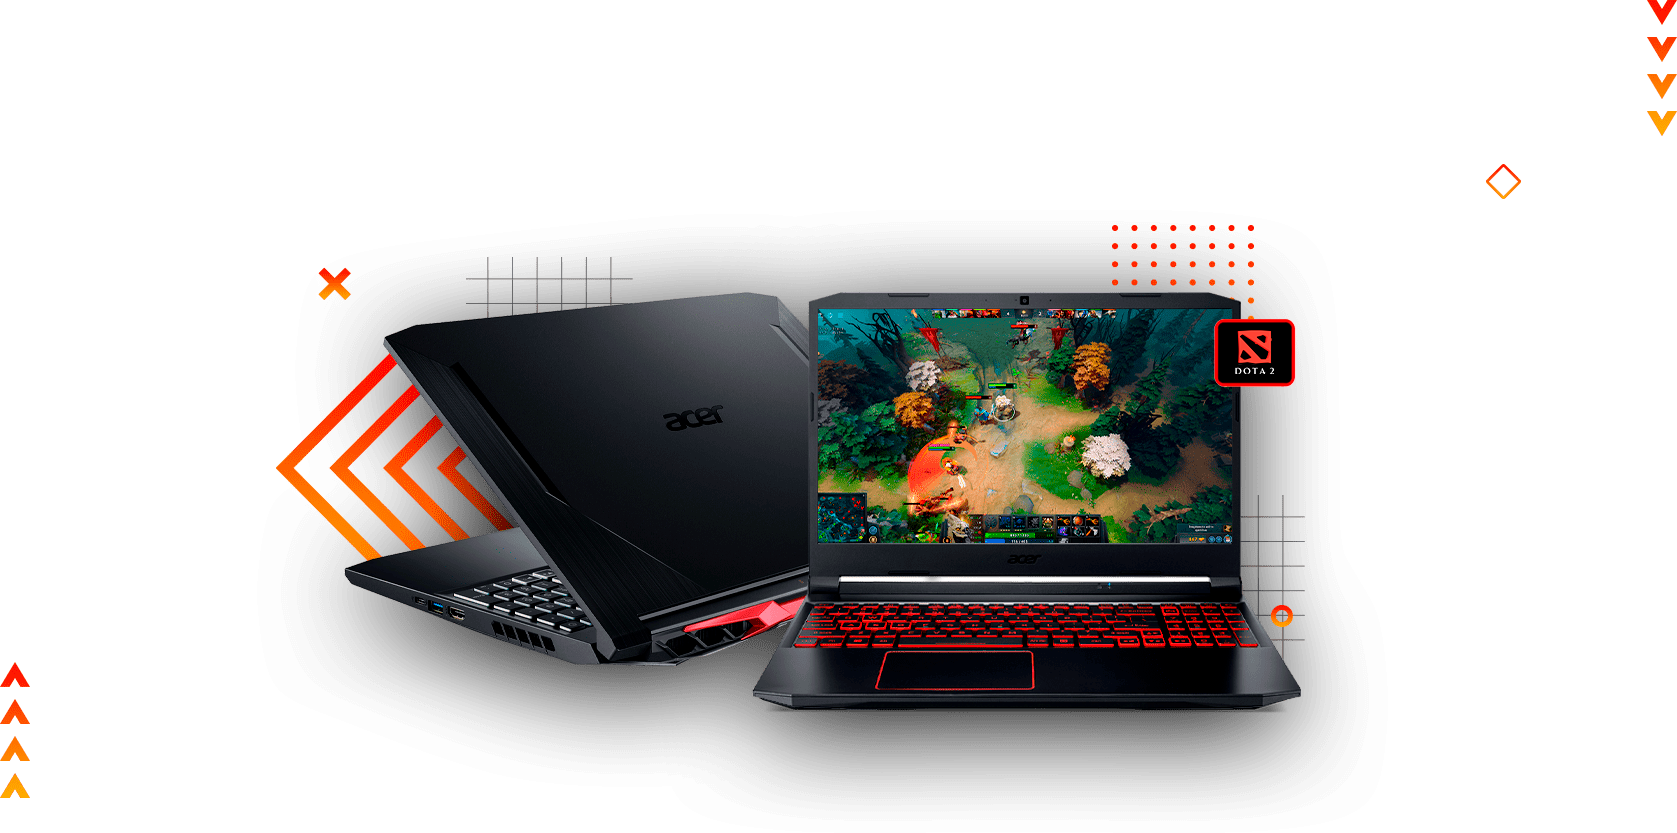
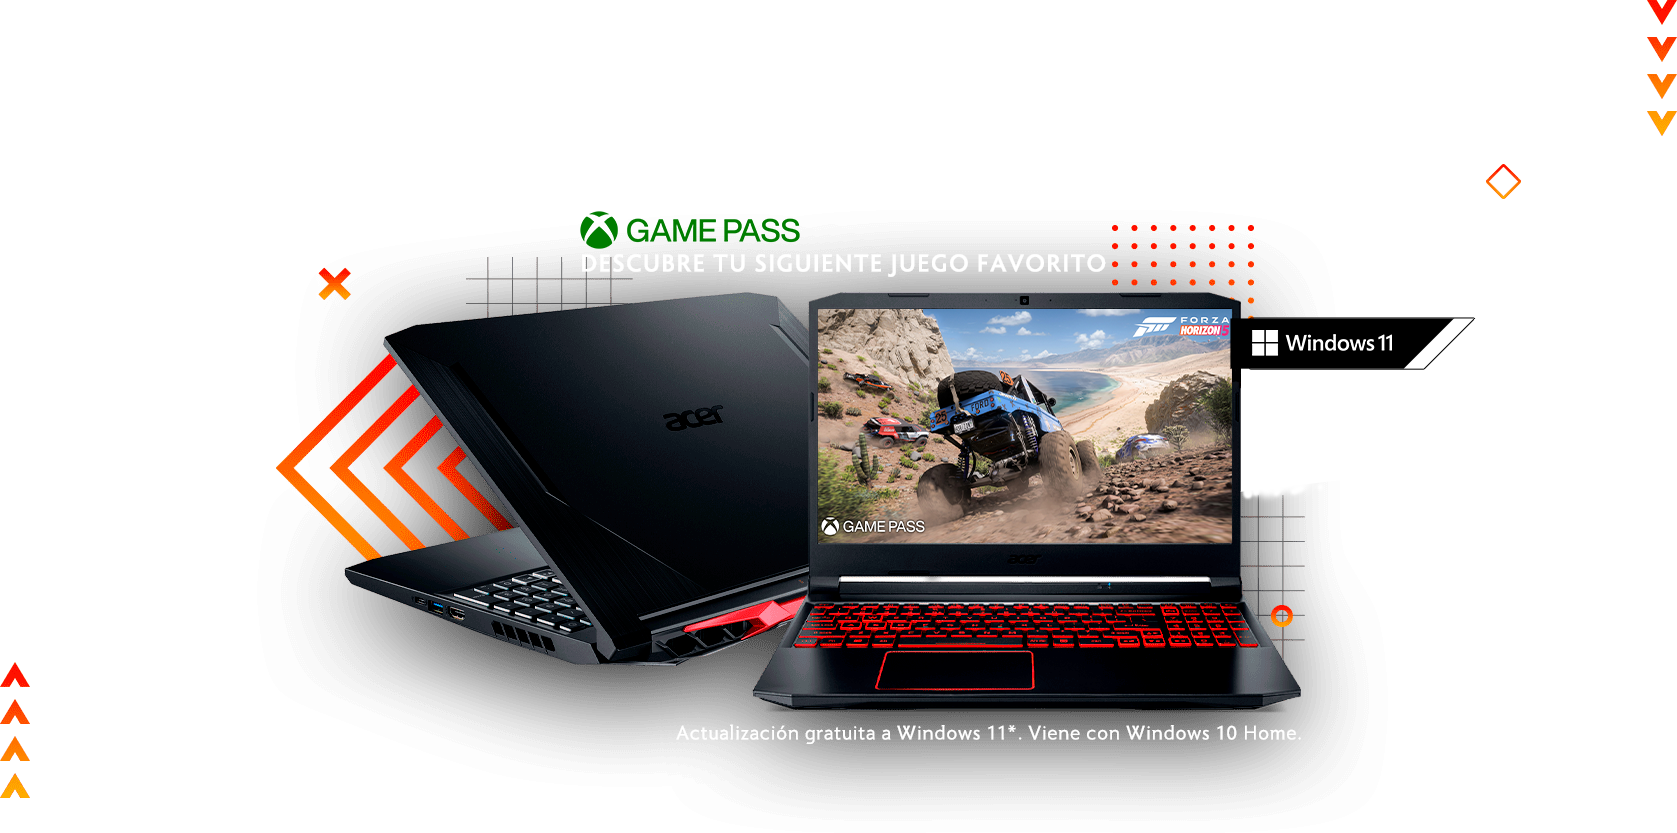
DONE change laptops image in home and live

diff --git a/src/app/pages/live/live.component.scss b/src/app/pages/live/live.component.scss
@@ -18,7 +18,7 @@
     left: 0;
     right: 0;
     top: 0;
-    margin: 12em auto 0;
+    margin: 8em auto 0;
     min-height: 225px;
     max-width: 1400px;
     object-fit: cover;
@@ -91,11 +91,17 @@
     }
   }
   @media only screen and (max-width: 1700px) {
+    .image {
+      margin-top: 13em;
+    }
     .overlay {
       min-height: 80vw;
     }
   }
   @media only screen and (max-width: 1200px) {
+    .image {
+      margin-top: 13em;
+    }
     .overlay {
       min-height: 90vw;
       app-gradient-button:hover {
@@ -105,7 +111,7 @@
   }
   @media only screen and (max-width: 768px) {
     .image {
-      margin-top: 15em;
+      margin-top: 12.5em;
     }
     .overlay {
       min-height: 100vh;

diff --git a/src/app/pages/home/components/second-section/second-section.component.scss b/src/app/pages/home/components/second-section/second-section.component.scss
@@ -15,7 +15,7 @@
     min-height: 225px;
     max-width: 1400px;
     object-fit: cover;
-    width: 85vw;
+    width: 80vw;
   }
   .overlay {
     display: flex;
@@ -80,7 +80,7 @@
   }
   @media only screen and (max-width: 1218px) {
     .image {
-      margin-top: 4vh;
+      margin-top: 5%;
     }
     .overlay {
       .bottom {
@@ -93,9 +93,14 @@
       }
     }
   }
+  @media only screen and (max-width: 972px) {
+    .image {
+      margin-top: 12%;
+    }
+  }
   @media only screen and (max-width: 768px) {
     .image {
-      margin-top: 30%;
+      margin-top: 25%;
     }
     .overlay {
       .bottom {
